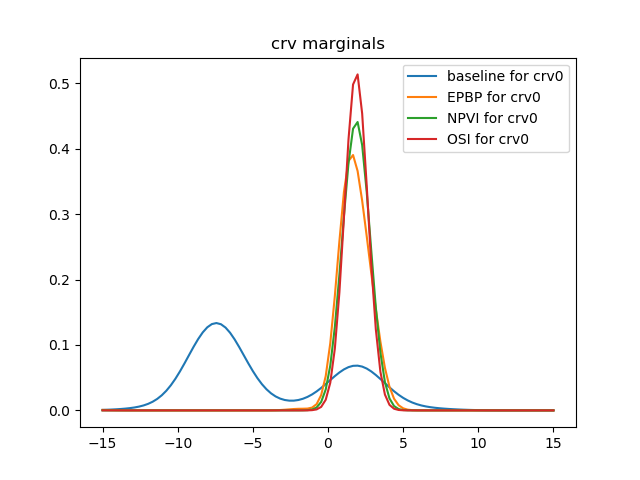
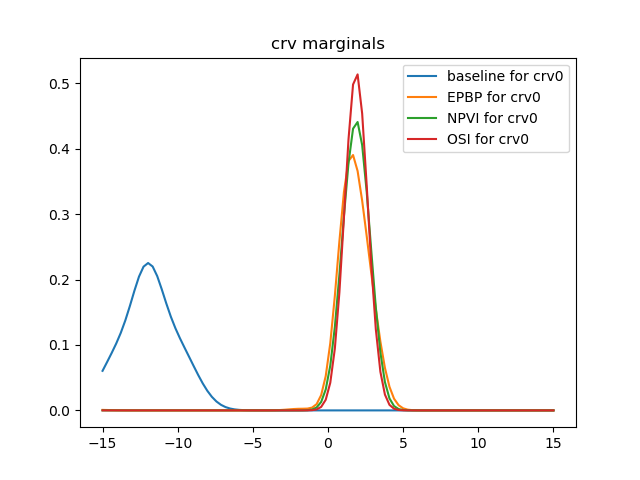
rerun prev, but with baseline from exact switched to sampling; the algorithms' fit stay identical (as they should be b/c of prev commit); sampled marginal seems wrong and doesn't seem to be improved with more its/burnin; will use exact baseline for now

diff --git a/osi/hmln_citation_experiment.py b/osi/hmln_citation_experiment.py
@@ -155,8 +155,8 @@ for test_num in range(num_tests):
 
     all_margs = {algo_name: [None] * len(query_rvs) for algo_name in algo_names}  # for plotting convenience
 
-    baseline = 'exact'
-    # baseline = 'gibbs'
+    # baseline = 'exact'
+    baseline = 'gibbs'
     for a, algo_name in enumerate(algo_names):
         print('####')
         print('test_num', test_num)
